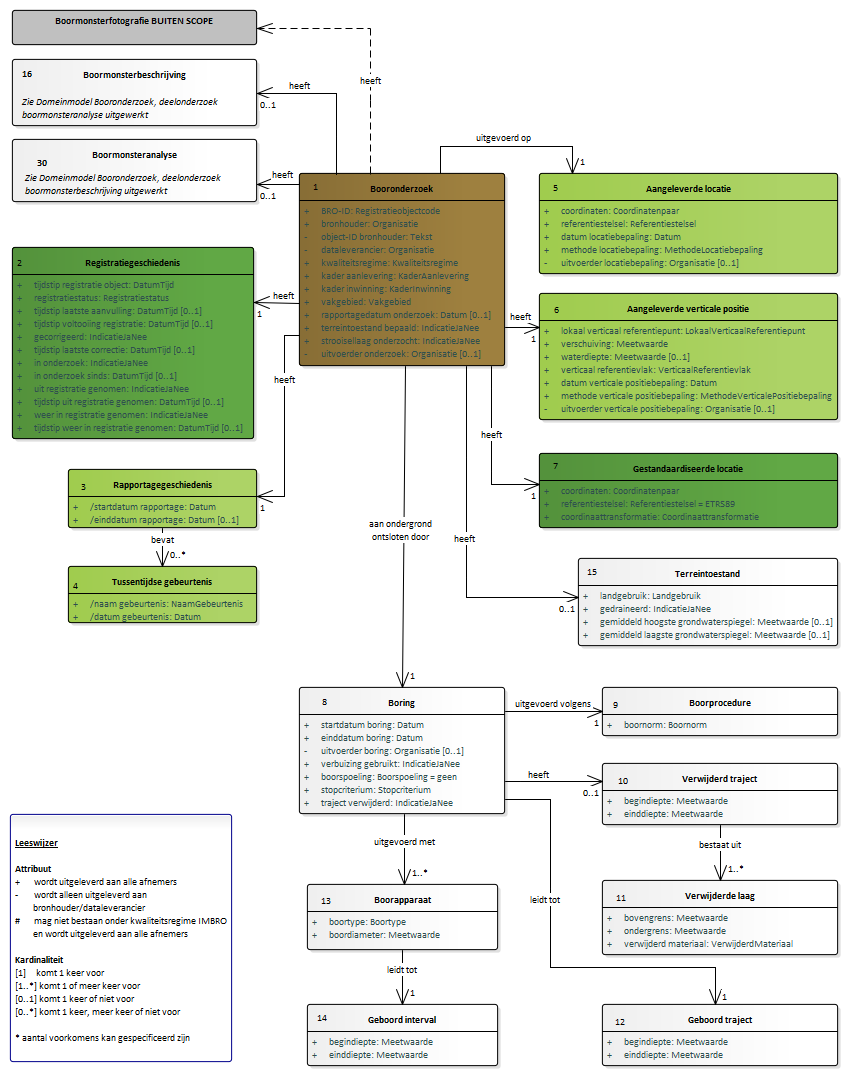
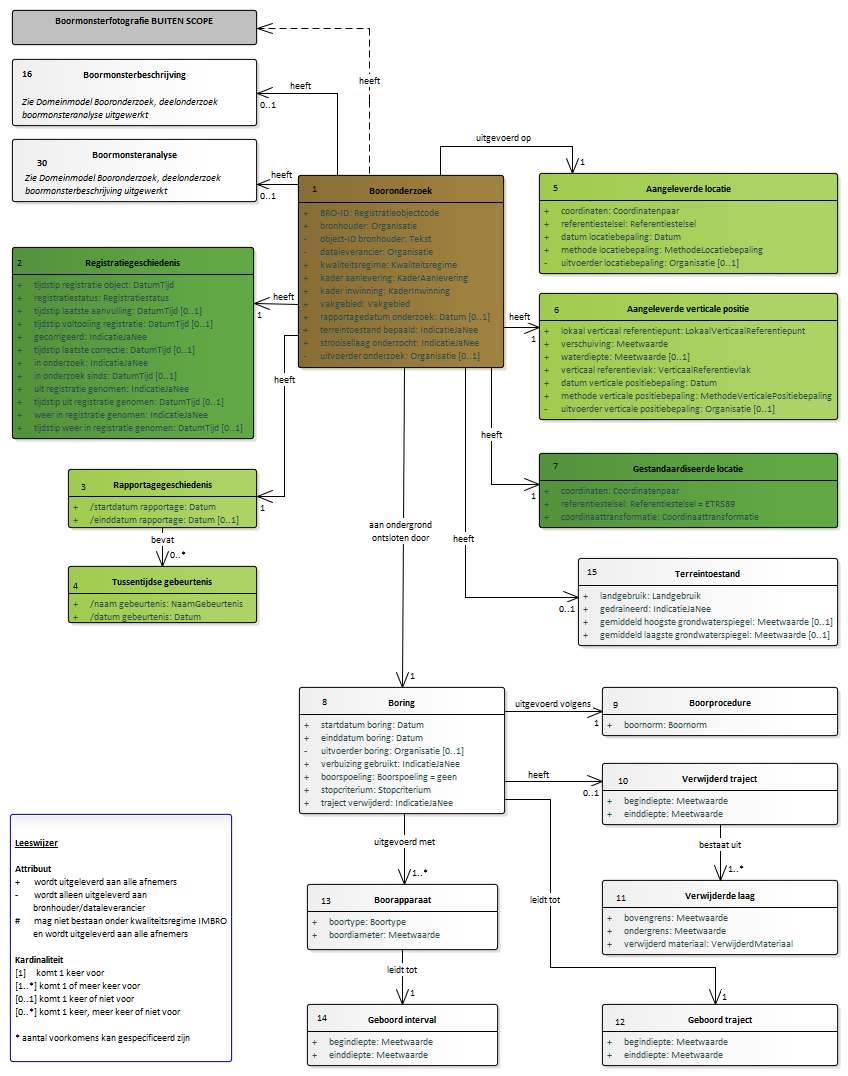
Conceptualmodel-BHR-Pconceptueel-MIM-1.9127november2019-1-20200214-20200325-160236

diff --git a/data/BHR-P-cat.msword.html b/data/BHR-P-cat.msword.html
@@ -13,7 +13,7 @@
    <body>
       <p>Conceptual model/BHR-P conceptueel - MIM/20200214</p>
       <p>Imvertor: 1.59.2</p>
-      <p>Model release: Conceptualmodel-BHR-Pconceptueel-MIM-1.9127november2019-1-20200214-20200325-155751</p>
+      <p>Model release: Conceptualmodel-BHR-Pconceptueel-MIM-1.9127november2019-1-20200214-20200325-160236</p>
       <hr>
       <section>
          <h1>Artikel 1 Definitie van registratieobject, entiteiten en attributen</h1>
@@ -81,7 +81,7 @@
                      <area shape="rect" alt="Boormonsterbeschrijving" coords="12,59,257,126" href="#graph_EAID_697C344A_A1CE_4e19_A1E8_D608CAB8F0B2">
                      <area shape="rect" alt="Registratiegeschiedenis" coords="12,247,254,439" href="#graph_EAID_8505883D_9F95_4151_9381_E70B2B7F19DE">
                      <area shape="rect" alt="Boormonsteranalyse" coords="12,139,257,202" href="#graph_EAID_C497D0C8_A7FC_4280_82C3_3C866CAA23AB">
-                     <area shape="rect" alt="Booronderzoek" coords="299,173,505,366" href="#graph_EAID_767F438F_1014_47bc_BBDC_98606932693D"></map><p><b>Domeinmodel BRO Booronderzoek</b></p>
+                     <area shape="rect" alt="Booronderzoek" coords="298,175,504,368" href="#graph_EAID_767F438F_1014_47bc_BBDC_98606932693D"></map><p><b>Domeinmodel BRO Booronderzoek</b></p>
                </div>
                <div class="imageinfo overview"><img src="Images/EAID_1C3500F1_E5BB_47e3_9CE1_BB98873D797A.png" usemap="#imagemap-EAID_1C3500F1_E5BB_47e3_9CE1_BB98873D797A" alt="Diagram "><map name="imagemap-EAID_1C3500F1_E5BB_47e3_9CE1_BB98873D797A">
                      <area shape="rect" alt="Bodemclassificatie" coords="548,10,838,244" href="#graph_EAID_CFE14268_F08B_4a20_BB74_3FEA8BBA0438">
